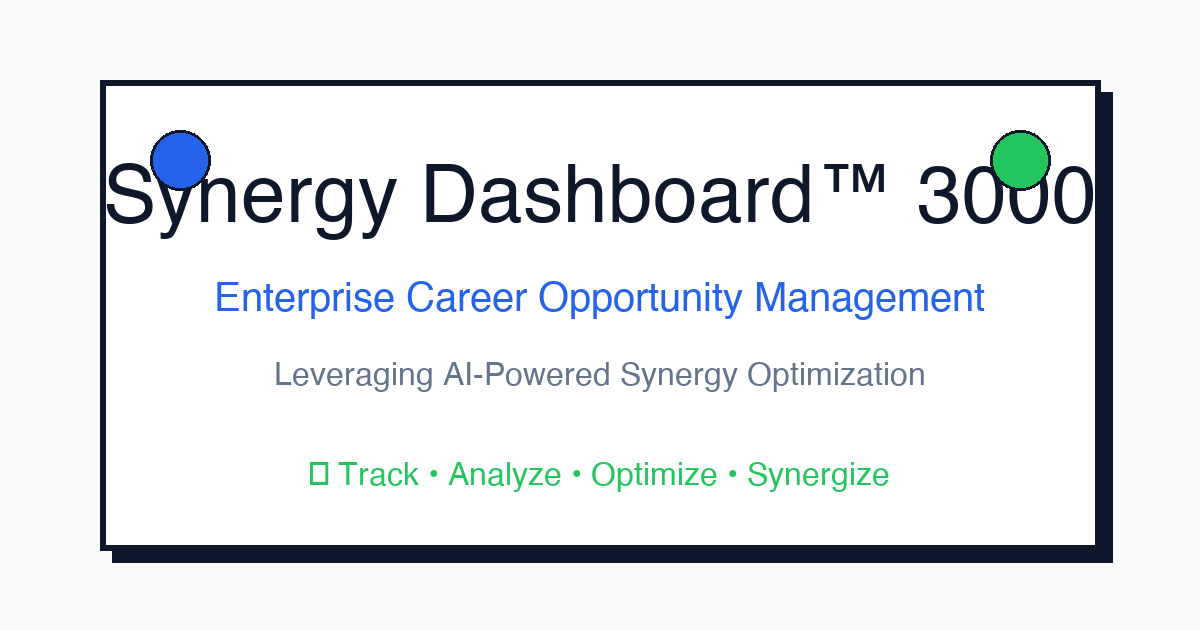
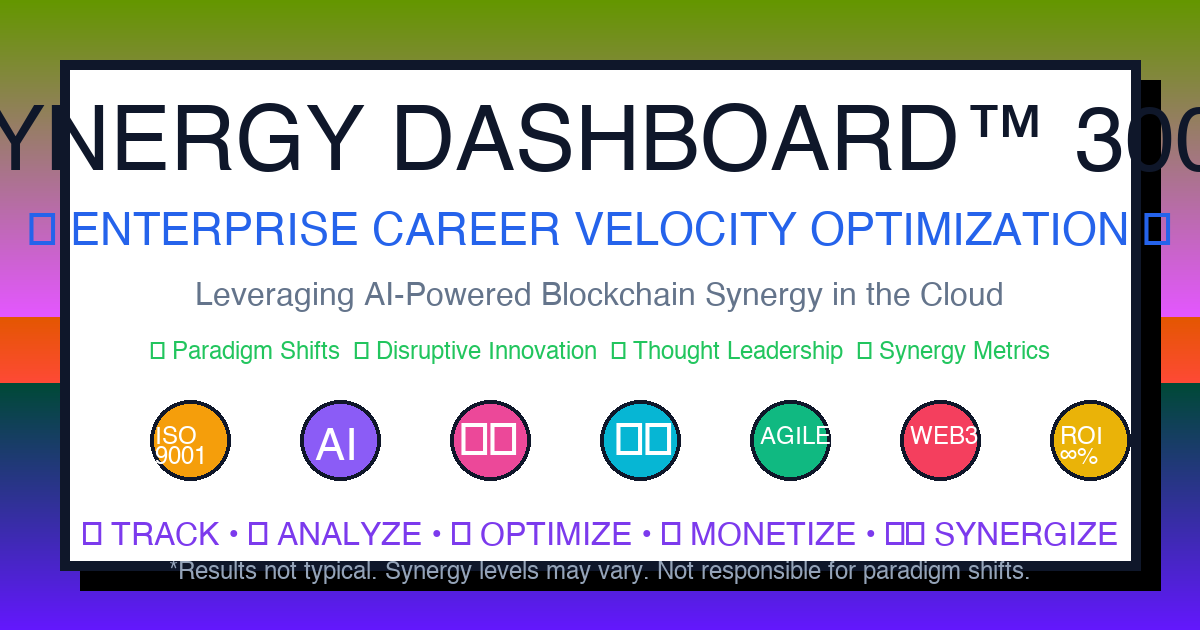
feat(og): Replace boring OG image with MAXIMUM TROLL corporate satire
- Chaotic gradient background
- 7 ridiculous corporate badges (ISO 9001, AI, Blockchain, Cloud, Agile, Web3, ROI ∞%)
- Peak buzzword density: paradigm shifts, disruptive innovation, thought leadership
- Bottom disclaimer: *Results not typical. Synergy levels may vary.
- Tagline: Leveraging AI-Powered Blockchain Synergy in the Cloud
- Features: Track • Analyze • Optimize • Monetize • Synergize

🤖 Generated with [Claude Code](https://claude.com/claude-code)

diff --git a/generate_og_troll.py b/generate_og_troll.py
@@ -1,0 +1,137 @@
+#!/usr/bin/env python3
+"""
+Generate TROLL-LEVEL OG image for Synergy Dashboard™ 3000
+Maximum corporate satire energy
+"""
+
+from PIL import Image, ImageDraw, ImageFont
+import random
+
+# Create 1200x630 OG image
+img = Image.new('RGB', (1200, 630), '#0f172a')  # Dark slate background
+draw = ImageDraw.Draw(img)
+
+# Chaotic gradient background (corporate rainbow vomit)
+for i in range(630):
+    color_shift = int(255 * (i / 630))
+    # Rotating RGB chaos
+    r = (color_shift + 100) % 255
+    g = (150 - color_shift // 2) % 255
+    b = (color_shift * 2) % 255
+    draw.rectangle([0, i, 1200, i+1], fill=(r, g, b))
+
+# MASSIVE brutal shadow card
+shadow_offset = 20
+card_padding = 60
+draw.rectangle(
+    [card_padding + shadow_offset, card_padding + shadow_offset,
+     1200 - card_padding + shadow_offset, 630 - card_padding + shadow_offset],
+    fill='#000000'
+)
+
+# White card with THICC border
+draw.rectangle([card_padding, card_padding, 1200 - card_padding, 630 - card_padding], fill='#ffffff')
+draw.rectangle([card_padding, card_padding, 1200 - card_padding, 630 - card_padding],
+               outline='#0f172a', width=10)
+
+# Try to load fonts
+try:
+    title_font = ImageFont.truetype("/System/Library/Fonts/Helvetica.ttc", 90)
+    subtitle_font = ImageFont.truetype("/System/Library/Fonts/Helvetica.ttc", 45)
+    desc_font = ImageFont.truetype("/System/Library/Fonts/Helvetica.ttc", 32)
+    small_font = ImageFont.truetype("/System/Library/Fonts/Helvetica.ttc", 24)
+except (OSError, IOError):
+    title_font = ImageFont.load_default()
+    subtitle_font = ImageFont.load_default()
+    desc_font = ImageFont.load_default()
+    small_font = ImageFont.load_default()
+
+# TITLE - Corporate AF
+title = "SYNERGY DASHBOARD™ 3000"
+title_bbox = draw.textbbox((0, 0), title, font=title_font)
+title_w = title_bbox[2] - title_bbox[0]
+title_x = (1200 - title_w) // 2
+draw.text((title_x, 100), title, fill='#0f172a', font=title_font)
+
+# Subtitle - Maximum buzzwords
+subtitle = "🚀 ENTERPRISE CAREER VELOCITY OPTIMIZATION 🚀"
+subtitle_bbox = draw.textbbox((0, 0), subtitle, font=subtitle_font)
+subtitle_w = subtitle_bbox[2] - subtitle_bbox[0]
+subtitle_x = (1200 - subtitle_w) // 2
+draw.text((subtitle_x, 210), subtitle, fill='#2563eb', font=subtitle_font)
+
+# Tagline - Peak absurdity
+tagline = "Leveraging AI-Powered Blockchain Synergy in the Cloud"
+tagline_bbox = draw.textbbox((0, 0), tagline, font=desc_font)
+tagline_w = tagline_bbox[2] - tagline_bbox[0]
+tagline_x = (1200 - tagline_w) // 2
+draw.text((tagline_x, 280), tagline, fill='#64748b', font=desc_font)
+
+# Features bar - Corporate bingo
+features = "✓ Paradigm Shifts  ✓ Disruptive Innovation  ✓ Thought Leadership  ✓ Synergy Metrics"
+features_bbox = draw.textbbox((0, 0), features, font=small_font)
+features_w = features_bbox[2] - features_bbox[0]
+features_x = (1200 - features_w) // 2
+draw.text((features_x, 340), features, fill='#22c55e', font=small_font)
+
+# BADGES - Ridiculous corporate awards
+badge_y = 400
+badge_size = 80
+
+# Badge 1 - "ISO Certified BS"
+draw.ellipse([150, badge_y, 150 + badge_size, badge_y + badge_size],
+             fill='#f59e0b', outline='#0f172a', width=4)
+draw.text((155, badge_y + 25), "ISO", fill='#ffffff', font=small_font)
+draw.text((155, badge_y + 45), "9001", fill='#ffffff', font=small_font)
+
+# Badge 2 - "AI Powered"
+draw.ellipse([300, badge_y, 300 + badge_size, badge_y + badge_size],
+             fill='#8b5cf6', outline='#0f172a', width=4)
+draw.text((315, badge_y + 25), "AI", fill='#ffffff', font=subtitle_font)
+
+# Badge 3 - "Blockchain Ready"
+draw.ellipse([450, badge_y, 450 + badge_size, badge_y + badge_size],
+             fill='#ec4899', outline='#0f172a', width=4)
+draw.text((460, badge_y + 20), "⛓", fill='#ffffff', font=subtitle_font)
+
+# Badge 4 - "Cloud Native"
+draw.ellipse([600, badge_y, 600 + badge_size, badge_y + badge_size],
+             fill='#06b6d4', outline='#0f172a', width=4)
+draw.text((615, badge_y + 20), "☁", fill='#ffffff', font=subtitle_font)
+
+# Badge 5 - "Agile Certified"
+draw.ellipse([750, badge_y, 750 + badge_size, badge_y + badge_size],
+             fill='#10b981', outline='#0f172a', width=4)
+draw.text((760, badge_y + 25), "AGILE", fill='#ffffff', font=small_font)
+
+# Badge 6 - "Web3 Enabled"
+draw.ellipse([900, badge_y, 900 + badge_size, badge_y + badge_size],
+             fill='#f43f5e', outline='#0f172a', width=4)
+draw.text((910, badge_y + 25), "WEB3", fill='#ffffff', font=small_font)
+
+# Badge 7 - "ROI Guaranteed*"
+draw.ellipse([1050, badge_y, 1050 + badge_size, badge_y + badge_size],
+             fill='#eab308', outline='#0f172a', width=4)
+draw.text((1060, badge_y + 25), "ROI", fill='#ffffff', font=small_font)
+draw.text((1060, badge_y + 45), "∞%", fill='#ffffff', font=small_font)
+
+# Bottom banner - MAXIMUM TROLL
+banner_text = "🎯 TRACK • 📊 ANALYZE • 🚀 OPTIMIZE • 💰 MONETIZE • ♾ SYNERGIZE"
+banner_bbox = draw.textbbox((0, 0), banner_text, font=desc_font)
+banner_w = banner_bbox[2] - banner_bbox[0]
+banner_x = (1200 - banner_w) // 2
+draw.text((banner_x, 520), banner_text, fill='#7c3aed', font=desc_font)
+
+# Disclaimer (the troll cherry on top)
+disclaimer = "*Results not typical. Synergy levels may vary. Not responsible for paradigm shifts."
+disclaimer_bbox = draw.textbbox((0, 0), disclaimer, font=small_font)
+disclaimer_w = disclaimer_bbox[2] - disclaimer_bbox[0]
+disclaimer_x = (1200 - disclaimer_w) // 2
+draw.text((disclaimer_x, 560), disclaimer, fill='#94a3b8', font=small_font)
+
+# Save
+img.save('/Users/matthewscott/Projects/jobtracker-frontend/public/og-image.png')
+print("✅ TROLL-LEVEL OG image generated!")
+print("📁 Saved to: public/og-image.png")
+print("🎨 Size: 1200x630px")
+print("😈 Satire level: MAXIMUM")
